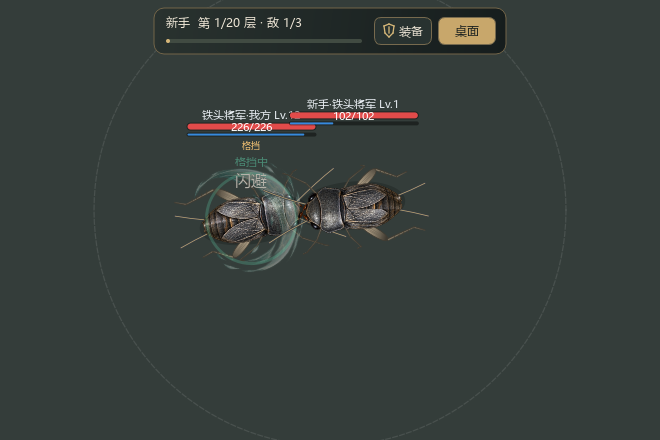
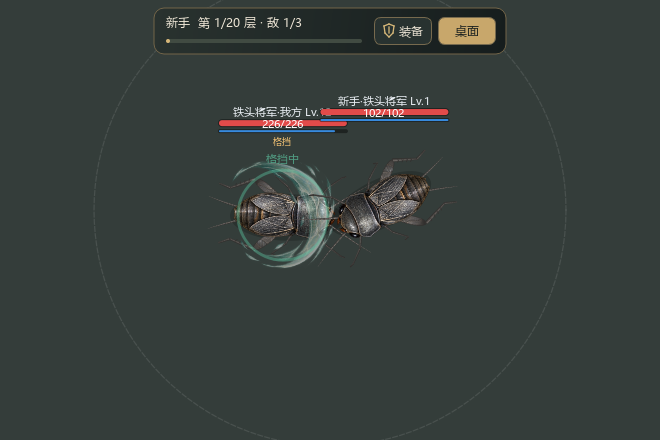
v0.6.11: add grassy idle dock and refine cricket limb materials

Changed region(s): [[0.2727, 0.2068, 0.697, 0.6205]]

diff --git a/main.py b/main.py
@@ -24,7 +24,7 @@ LOG_FILE = os.path.join(APP_DIR, "error.log")
 
 from PySide6.QtCore import QObject, QRectF, QSharedMemory, Qt, QTimer, Signal
 from PySide6.QtGui import (QAction, QBrush, QColor, QCursor, QFont, QIcon,
-                           QPainter, QPen, QPixmap, QRegion)
+                           QPainter, QPen, QPixmap, QRegion, QFontMetricsF)
 from PySide6.QtWidgets import QApplication, QMenu, QSystemTrayIcon, QWidget
 
 from pynput import keyboard, mouse
@@ -39,9 +39,9 @@ from persistence import write_json
 
 # 基准尺寸，实际显示尺寸 = 基准 × 缩放（设置面板可调）
 # 顶部多留 TOP_PAD：经验飘字往上升，没这块会被 setMask 裁掉上半截
-WIN_W, WIN_H = 190, 224
+WIN_W, WIN_H = 240, 240
 TOP_PAD = 16
-CX = 98.0
+CX = 120.0
 FOOT_Y = 155.0
 SCALE = 1.3
 
@@ -191,9 +191,9 @@ class Pet(QWidget):
             self.btn_attr.setFixedSize(bw, bh)
             self.btn_dungeon.setFixedSize(bw, bh)
             bx = max(0, (self.width() - 2*bw - 6)//2)
-            self.btn_attr.move(bx, int(8 * self.zoom))
+            self.btn_attr.move(bx, int((TOP_PAD + 174) * self.zoom))
             self.btn_attr.show()
-            self.btn_dungeon.move(bx + bw + 6, int(8 * self.zoom))
+            self.btn_dungeon.move(bx + bw + 6, int((TOP_PAD + 174) * self.zoom))
             self.btn_dungeon.show()
 
     def _toggle_equipment_panel(self) -> None:
@@ -250,15 +250,15 @@ class Pet(QWidget):
             return
         f = self.zoom
         # 飘字带：从窗口顶到蛐蛐头顶，保证 "+12" 这类数字完整显示
-        region = QRegion(int(16 * f), 0, int(164 * f), int(70 * f))
+        region = QRegion(int(22 * f), 0, int(196 * f), int(70 * f))
         # 蛐蛐本体 + 升级光圈（y 已含 TOP_PAD 偏移；左界/底界给光圈留足空间）
         region = region.united(
-            QRegion(int(16 * f), int((36 + TOP_PAD) * f),
-                    int(168 * f), int(128 * f)))
+            QRegion(int(32 * f), int((36 + TOP_PAD) * f),
+                    int(176 * f), int(128 * f)))
+        # 草地与内嵌按钮属于可交互区域；顶部经验条与等级保持同排。
+        region = region.united(QRegion(int(6*f), int((TOP_PAD+140)*f), int(228*f), int(84*f)))
         if self.settings.show_bar:
-            region = region.united(
-                QRegion(int(24 * f), int((162 + TOP_PAD) * f),
-                        int(142 * f), int(46 * f)))
+            region = region.united(QRegion(int(30*f), int((TOP_PAD+2)*f), int(180*f), int(24*f)))
         # 模式按钮也要在 mask 内，否则不渲染不可点
         for name in ("btn_attr", "btn_dungeon"):
             b = getattr(self, name, None)
@@ -571,6 +571,8 @@ class Pet(QWidget):
             p.setBrush(QBrush(QColor(242, 178, 51, int(70 * k))))
             p.drawEllipse(QRectF(CX * f - gw / 2, (FOOT_Y - 96) * f, gw, 104 * f))
 
+        from art_assets import sprite, draw_sprite
+        draw_sprite(p, sprite('grass'), QRectF(6*f, 140*f, 228*f, 76*f))
         paint_cricket(p, CX * f, FOOT_Y * f, SCALE * f, self.cricket, self.palette)
 
         self._draw_floats(p, f)
@@ -587,7 +589,7 @@ class Pet(QWidget):
             alpha = min(1.0, life / (max_life * 0.5))
             c = QColor(color)
             c.setAlphaF(alpha)
-            r = QRectF((CX + dx) * f - 60 * f, (FOOT_Y - 128) * f - dy * f,
+            r = QRectF((CX + dx) * f - 60 * f, max(32*f, (FOOT_Y - 104)*f - dy*f),
                        120 * f, 22 * f)
             p.setPen(QPen(QColor(0, 0, 0, int(120 * alpha)), 3.0))
             p.drawText(r, Qt.AlignmentFlag.AlignCenter, text)
@@ -597,32 +599,25 @@ class Pet(QWidget):
     def _draw_bar(self, p: QPainter, f: float) -> None:
         need = self.db.exp_need(self.level)
         ratio = max(0.0, min(1.0, self.xp / need))
-        x, y, w, h = 34.0 * f, 170.0 * f, 122.0 * f, 9.0 * f
-
-        p.setPen(Qt.PenStyle.NoPen)
-        p.setBrush(QBrush(QColor(0, 0, 0, 95)))
-        p.drawRoundedRect(QRectF(x, y, w, h), 4.5 * f, 4.5 * f)
-        p.setBrush(QBrush(QColor("#8FD14F")))
-        p.drawRoundedRect(QRectF(x, y, w * ratio, h), 4.5 * f, 4.5 * f)
-        p.setBrush(QBrush(QColor(255, 255, 255, 70)))
-        p.drawRoundedRect(QRectF(x + 1, y + 1, max(0.0, w * ratio - 2), 3 * f),
-                          1.5 * f, 1.5 * f)
-
-        # 文字底衬：桌面上背景不可控，加个深色胶囊保证任何壁纸下都能看清
-        cap_w, cap_h = 108 * f, 19 * f
-        p.setPen(Qt.PenStyle.NoPen)
-        p.setBrush(QBrush(QColor(0, 0, 0, 135)))
-        p.drawRoundedRect(QRectF(x + w / 2 - cap_w / 2, y + 12 * f, cap_w, cap_h),
-                          9.5 * f, 9.5 * f)
-
         font = QFont("Microsoft YaHei")
-        font.setPixelSize(max(9, min(20, int(12 * f))))
+        font.setPixelSize(max(9, min(20, int(12*f))))
+        font.setWeight(QFont.Weight.DemiBold)
+        level_width = max(50., 56*f, QFontMetricsF(font).horizontalAdvance(f"Lv.{self.level}")+6*f)
+        x, y, w, h = 36*f+level_width+4*f, 12*f, 164*f-level_width, 7*f
+        p.setPen(Qt.PenStyle.NoPen)
+        p.setBrush(QColor(19, 29, 22, 220))
+        p.drawRoundedRect(QRectF(32*f, 2*f, 176*f, 26*f), 10*f, 10*f)
+        p.setBrush(QColor('#43513A'))
+        p.drawRoundedRect(QRectF(x, y, w, h), 3.5*f, 3.5*f)
+        p.setBrush(QColor('#A3C771'))
+        p.drawRoundedRect(QRectF(x, y, w*ratio, h), 3.5*f, 3.5*f)
+        font = QFont("Microsoft YaHei")
+        font.setPixelSize(max(9, min(20, int(12*f))))
         font.setWeight(QFont.Weight.DemiBold)
         p.setFont(font)
         label = f"Lv.{self.level}"
-        p.setPen(QPen(QColor(255, 255, 255, 230), 1.0))
-        p.drawText(QRectF(x + w / 2 - cap_w / 2, y + 12 * f, cap_w, cap_h),
-                   Qt.AlignmentFlag.AlignCenter, label)
+        p.setPen(QColor('#EEE6D6'))
+        p.drawText(QRectF(36*f, 2*f, level_width, 26*f), Qt.AlignmentFlag.AlignCenter, label)
 
     # ---------- 交互 ----------
 

diff --git a/cricket_art.py b/cricket_art.py
@@ -7,6 +7,7 @@ from PySide6.QtGui import QColor, QLinearGradient, QPainterPath, QPen
 from art_assets import draw_sprite, species_sprite
 
 _HEAD_ANCHORS = {}
+_LIMB_PALETTES = {}
 
 
 def side_antenna_roots(pix, rect):
@@ -45,12 +46,23 @@ def stroke(p, points, color, width):
 
 def limb_colors(pal):
     """腿部以低饱和甲褐色为底，仅保留少量品种色，避免荧光塑料感。"""
-    base = pal['body']
-    earth = QColor('#86704D')
-    mid = QColor(*(round(a*.35+b*.65) for a, b in zip(
-        (base.red(), base.green(), base.blue()),
-        (earth.red(), earth.green(), earth.blue()))))
-    return mid.darker(210), mid, mid.lighter(135)
+    pix = species_sprite('side', pal)
+    key = (pix.cacheKey(), pal['body'].rgba())
+    if key not in _LIMB_PALETTES:
+        mid = QColor(pal['body'])
+        if not pix.isNull():
+            im = pix.toImage()
+            samples = [im.pixelColor(x,y) for x in range(0,im.width(),max(1,im.width()//24))
+                       for y in range(0,im.height(),max(1,im.height()//16))
+                       if im.pixelColor(x,y).alpha()>220 and im.pixelColor(x,y).lightness()>20]
+            if samples:
+                mid = QColor(*(sorted(getattr(c, channel)() for c in samples)[len(samples)//2]
+                               for channel in ('red','green','blue')))
+        if len(_LIMB_PALETTES)>64:
+            _LIMB_PALETTES.clear()
+        mid = mid.lighter(118)
+        _LIMB_PALETTES[key] = (mid.darker(190), mid, mid.lighter(155))
+    return _LIMB_PALETTES[key]
 
 
 def limb(p, points, pal, width=2.4, spines=False):
@@ -60,7 +72,7 @@ def limb(p, points, pal, width=2.4, spines=False):
         dx, dy = x1-x0, y1-y0
         length = max(1, math.hypot(dx, dy))
         nx, ny = -dy/length, dx/length
-        radius = width*.35 * (.65**index)
+        radius = width*.48 * (.65**index)
         tip = max(.18, radius*.5)
         path = QPainterPath(QPointF(x0+nx*radius, y0+ny*radius))
         path.quadTo(x0+dx*.5+nx*radius*.65, y0+dy*.5+ny*radius*.65,
@@ -76,6 +88,14 @@ def limb(p, points, pal, width=2.4, spines=False):
         grad.setColorAt(1, dark)
         p.setBrush(grad)
         p.drawPath(path)
+        # 短促的节纹与有体积的关节，避免细腿像一根平直描线。
+        for t in (.2, .38, .57, .75):
+            x, y = x0+dx*t, y0+dy*t
+            stroke(p, [(x-nx*radius*.6,y-ny*radius*.6),
+                       (x+nx*radius*.35-dx*.015,y+ny*radius*.35-dy*.015)], dark, .25)
+        if index < 2:
+            p.setPen(QPen(dark,.3)); p.setBrush(mid.lighter(115))
+            p.drawEllipse(QPointF(x1,y1), max(.4,radius*.65), max(.35,radius*.48))
         if spines and index == 0:
             for k in (.25, .43, .61, .78):
                 x, y = x0+dx*k, y0+dy*k
@@ -101,6 +121,14 @@ def femur(p, root, knee, pal, thickness=4):
     p.setPen(QPen(dark, .6))
     p.setBrush(grad)
     p.drawPath(path)
+    # 甲壳贴图的细纹随股节轮廓裁切，与躯干共享材质而非平滑塑料色。
+    texture = species_sprite('side', pal)
+    if not texture.isNull():
+        p.save()
+        p.setClipPath(path, Qt.ClipOperation.IntersectClip)
+        p.setOpacity(p.opacity()*.48)
+        draw_sprite(p, texture, path.boundingRect())
+        p.restore()
     # 少量纵向肌理取代贯穿整条腿的亮色粗线。
     for fraction in (-.3, .15, .45):
         stroke(p, [(x0+dx*.2+nx*fraction, y0+dy*.2+ny*fraction),
@@ -108,13 +136,17 @@ def femur(p, root, knee, pal, thickness=4):
 
 
 def feeler(p, root, middle, tip, pal):
-    path = QPainterPath(QPointF(*root))
-    path.quadTo(QPointF(*middle), QPointF(*tip))
-    p.setBrush(Qt.BrushStyle.NoBrush)
-    p.setPen(QPen(pal['dk'].darker(140), 1.5))
-    p.drawPath(path)
-    p.setPen(QPen(QColor('#BEA774'), .55))
-    p.drawPath(path)
+    dark, mid, light = limb_colors(pal)
+    def point(t):
+        return ((1-t)**2*root[0]+2*(1-t)*t*middle[0]+t*t*tip[0],
+                (1-t)**2*root[1]+2*(1-t)*t*middle[1]+t*t*tip[1])
+    for index in range(36):
+        t = index/36
+        a, b = point(t), point((index+1)/36)
+        width = 1.35*(1-t)**1.25+.16
+        stroke(p, [a,b], dark, width)
+        stroke(p, [(a[0],a[1]-.12),(b[0],b[1]-.12)],
+               light if index % 3 else mid, width*.58)
 
 
 def side_body(p, c, pal):

diff --git a/gameplay_checklist.py b/gameplay_checklist.py
@@ -24,6 +24,20 @@ from test_support import isolated_game_data
 
 
 class GameplayTests(unittest.TestCase):
+    def test_idle_grass_buttons_and_header_at_all_zooms(self):
+        from art_assets import sprite
+        self.assertFalse(sprite('grass').isNull())
+        for zoom in (.6, 1., 2.):
+            self.pet.set_zoom(zoom)
+            for button in (self.pet.btn_attr, self.pet.btn_dungeon):
+                self.assertGreater(button.y(), (main.TOP_PAD+main.FOOT_Y)*zoom)
+                self.assertTrue(self.pet.rect().contains(button.geometry()))
+                self.assertTrue(self.pet.mask().contains(button.geometry().center()))
+            self.assertFalse(self.pet.btn_attr.geometry().intersects(self.pet.btn_dungeon.geometry()))
+        self.pet.settings.show_bar = False
+        self.pet._update_mask()
+        self.assertTrue(self.pet.mask().contains(self.pet.btn_attr.geometry().center()))
+
     def test_context_menu_refreshes_state_and_routes_actions(self):
         from menu_ui import create_menu
         menu = create_menu(self.pet)

diff --git a/assets/art/ART_DIRECTION.md b/assets/art/ART_DIRECTION.md
@@ -55,3 +55,12 @@ Production 2D game VFX sprite atlas for a refined hand-painted semi-realistic Ch
 ## arena
 
 Use case: stylized-concept. A production game environment sprite: ONE empty traditional Chinese cricket fighting ceramic bowl seen in strict orthographic top-down view, perfectly circular rim. Premium hand-painted semi-realistic 2D game art matching natural cricket sprites and bronze equipment icons. Warm aged charcoal-brown earthenware thick rim with subtle handmade incised concentric bands, inner wall smooth warm umber, broad flat pale sand clay floor with restrained fine mineral grain, tiny worn scratches and subtle diffuse shading. Playable interior must be flat, quiet, spacious, unobstructed, readable, approximately 85% of diameter. No crickets, no creatures, no rocks, no plants, no writing, no glyphs, no tools, no UI. Whole bowl centered with 6% transparent margin outside circular rim, true alpha transparent background. No table or outside environment. Polished painterly texture, no heavy vignette or dramatic shadows. Square output.
+
+## v0.6.11 待机草地
+
+- 素材：`idle_grass.png`，使用内置 image_gen 工具生成，保留原始透明通道；游戏运行时通过既有 sprite 入口裁掉透明外边，不修改源图。
+- 用途：蛐蛐脚下的草地台座，地块内部承载装备/副本按钮；等级与经验位于头顶横排。
+- 四肢继续使用可动画骨架：颜色采样身体贴图，股节叠加同源甲壳纹理，胫节增加节纹与关节体积，触须渐细并呈分节明暗。避免重新引入统一浅棕色粗线。
+- 生成提示词：
+
+Create one production game sprite, transparent RGBA background, no lettering no insects no UI buttons. A long low horizontal floating cutaway patch of meadow turf, front/side view with just a slight view of the grassy top, aspect ratio about 5:1. Precise silhouette: flat walkable top rim, short fine mossy olive-green grass along entire top, very shallow earthy brown soil thickness beneath with a few small roots and warm mineral grains. The soil front face must be dark, calm and mostly uncluttered in its center so two UI buttons can later overlay it. Mature delicate hand-painted natural history illustration, slightly realistic, intricate fine brush texture, warm muted bronze and moss colors, soft upper-left light. Isolated on genuinely transparent background with ample transparent padding, no drop-shadow rectangle, no scenery or sky. This will sit beneath a detailed bronze-black cricket in a desktop pet game. Flat horizontal layout not an isometric cube, not cartoon, no bright neon greens. Output crisp high resolution.

diff --git a/docs/CODE_AUDIT.md b/docs/CODE_AUDIT.md
@@ -31,11 +31,11 @@
 | 检查 | 数量 |
 |---|---:|
 | 战斗公式、150 场随机战、十难度模拟、竞技场和复活 | 23 |
-| 实际 Pet/BattleStage 玩法与持久化回归 | 32 |
+| 实际 Pet/BattleStage 玩法与持久化回归 | 33 |
 | 品种保存及重启 | 4 |
 | 装备 UI、替换、筛选、格子池、配置扩展 | 12 |
 | 六品种渲染、KO、触须根部、图集、装备资源 | 7 |
-| 合计 | 78 |
+| 合计 | 79 |
 
 同时对根目录全部 Python 文件做语法检查。玩法测试包括实际引擎桌面连续获胜并周期渲染、战败退层满血复活、带伤退出恢复、换装下一场生效、结算中退出、最终掉落和重试。
 
@@ -98,3 +98,7 @@
 ## v0.6.10 补充
 
 属性和装备拆成同尺寸页面，属性点击说明，部位背包右侧展开并可直接换装。新增页面与说明、背包过滤/换装/跟随/边缘/收起回归。预览见 ui_attributes.png 与 ui_equipment_drawer.png。
+
+## v0.6.11 补充
+
+草地台座、内嵌按钮、头顶等级与经验横排；肢体材质与身体取色一致。新增草地加载、按钮位置/点击遮罩、多档缩放回归，实际字体宽度适配最小尺寸；已有六品种与死亡/触须回归保留。

diff --git a/AI_HANDOVER.md b/AI_HANDOVER.md
@@ -216,3 +216,8 @@
 - 部位卡片打开右侧 400×同高的 CardPanel 背包，页面仍共用原 ViewModel/Grid，保留筛选与换装逻辑。drawer 为主面板拥有的顶层工具窗口；主窗口移动时贴靠，隐藏或切属性页时收起。
 - main._open_character_page 统一入口，右键属性/装备分别定位对应页。preview_ui.py 输出属性、装备与右侧背包预览。
 - 完整检查 78 项（装备 UI 12 项），覆盖属性说明、同尺寸切页、部位过滤、换装和窗口联动。
+
+### v0.6.11：草地挂机台座与肢体材质
+- 挂机窗口基准 240×240，角色中心 CX=120；草地通过 manifest 的 grass 条目加载，按钮位于地块内部，等级/经验同排在头顶，mask 与缩放同步。隐藏经验条仍保留地块和按钮。
+- cricket_art.limb_colors 缓存身体贴图采样色，股节纹理从同源贴图裁切绘制；关节、节纹、渐细触须均保持程序动画。勿改回统一浅棕色或固定粗细金线。
+- 新资源 assets/art/idle_grass.png 使用内置 image_gen，完整提示词在 ART_DIRECTION.md。三档缩放预览 docs/ui_idle_sizes.png。完整检查 79 项（玩法 33 项）。

diff --git a/README.md b/README.md
@@ -123,7 +123,7 @@ QuQuBattleGame/
 
 每次修改完成并验证后，整理版本说明、提交 commit、创建递增版本 tag，并推送提交和该标签到 origin。玩家存档与偏好不随代码发布。
 
-当前版本：`v0.6.10`，详见 [版本记录](CHANGELOG.md)。
+当前版本：`v0.6.11`，详见 [版本记录](CHANGELOG.md)。
 
 ```
 git commit -m "v0.2: 属性与状态条"
@@ -147,7 +147,7 @@ git push -u origin main --tags
 
 ## 全项目回归
 
-运行 `python check_project.py`，执行语法检查及 78 项自动检查（包括十难度战斗模拟）。
+运行 `python check_project.py`，执行语法检查及 79 项自动检查（包括十难度战斗模拟）。
 自动回归使用临时存档，结果写入 `docs/validation_results.txt`。
 问题修复、模拟数据与验收边界见 [代码检查报告](docs/CODE_AUDIT.md)。
 

diff --git a/CHANGELOG.md b/CHANGELOG.md
@@ -1,5 +1,12 @@
 # 版本记录
 
+## v0.6.11 · 2026-09-24
+
+- 挂机蛐蛐站在手绘草地台座上，装备与副本按钮内嵌地块，等级和经验条横排置于头顶。
+- 等级文字按字体实际宽度适配，更新 60%~200% 的窗口尺寸、按钮定位及点击遮罩，经验飘字避开顶部状态条。
+- 四肢从各品种身体贴图取色，股节加入同源甲壳纹理，胫节增加关节与节纹，触须渐细并增加分节明暗，保留动画。
+- 新增透明草地资源与生成提示词记录；完整检查 79 项，另完成三档实际缩放预览。
+
 ## v0.6.10 · 2026-09-24
 
 - 将属性与装备拆为同尺寸独立页面，通过页签切换；右键菜单增加属性入口。
